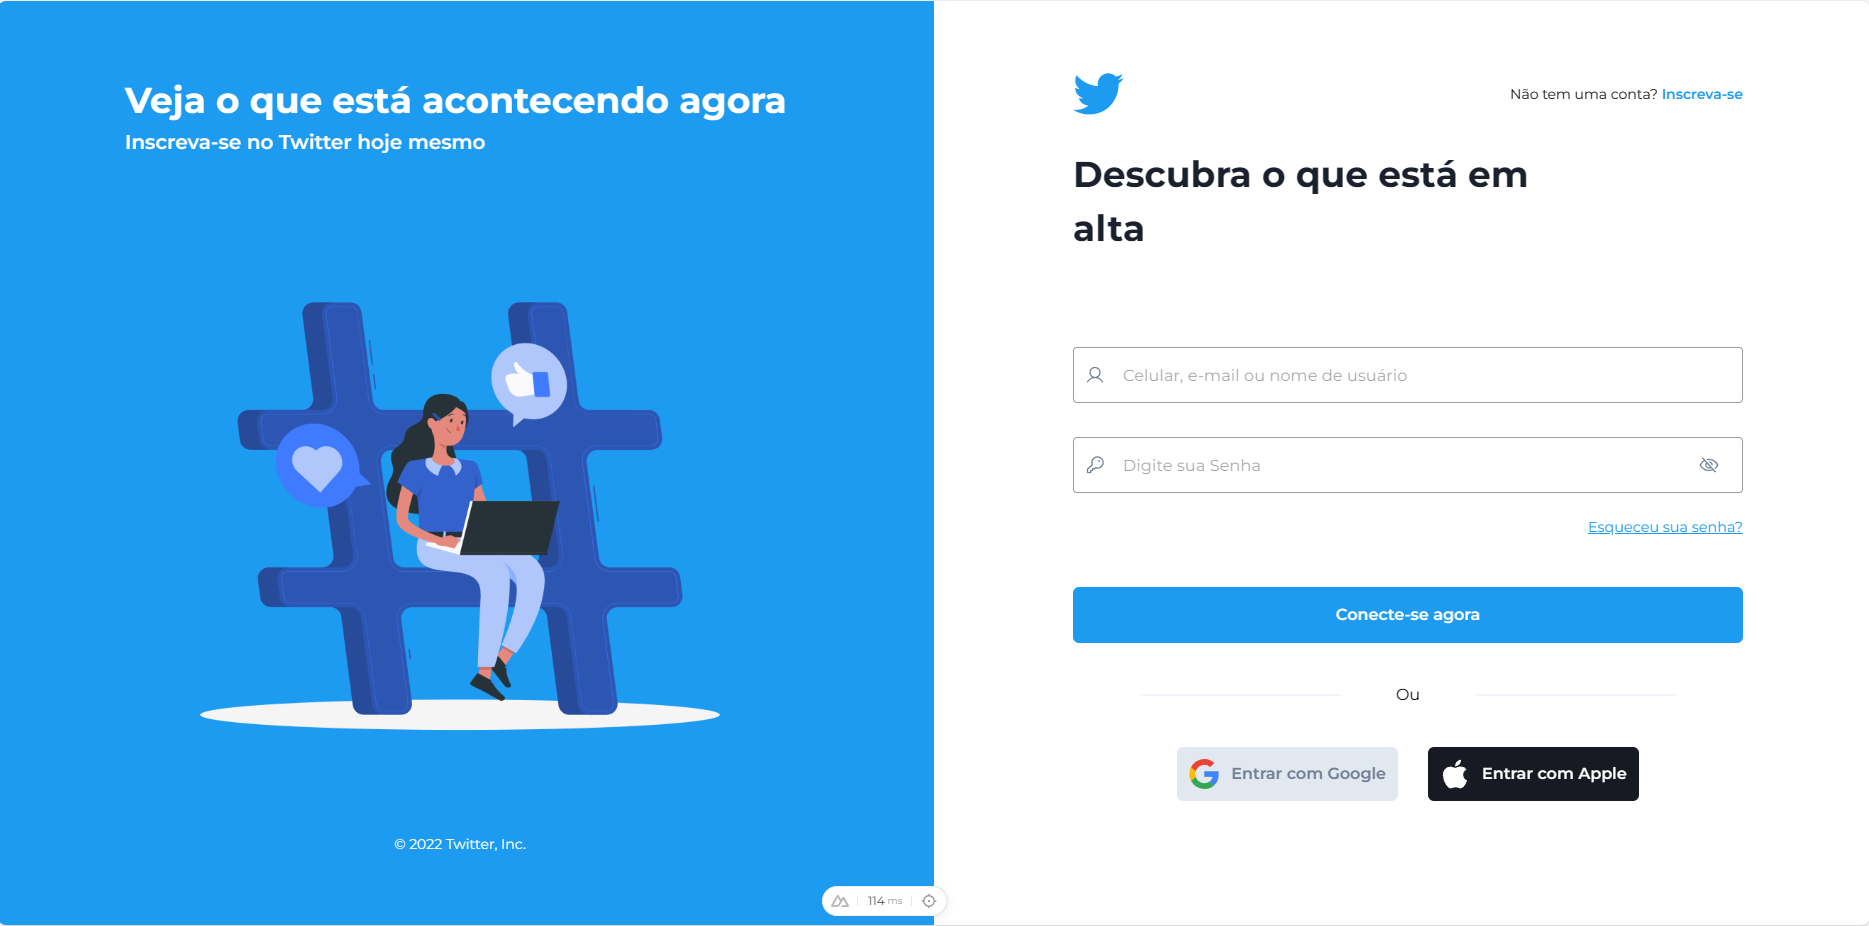
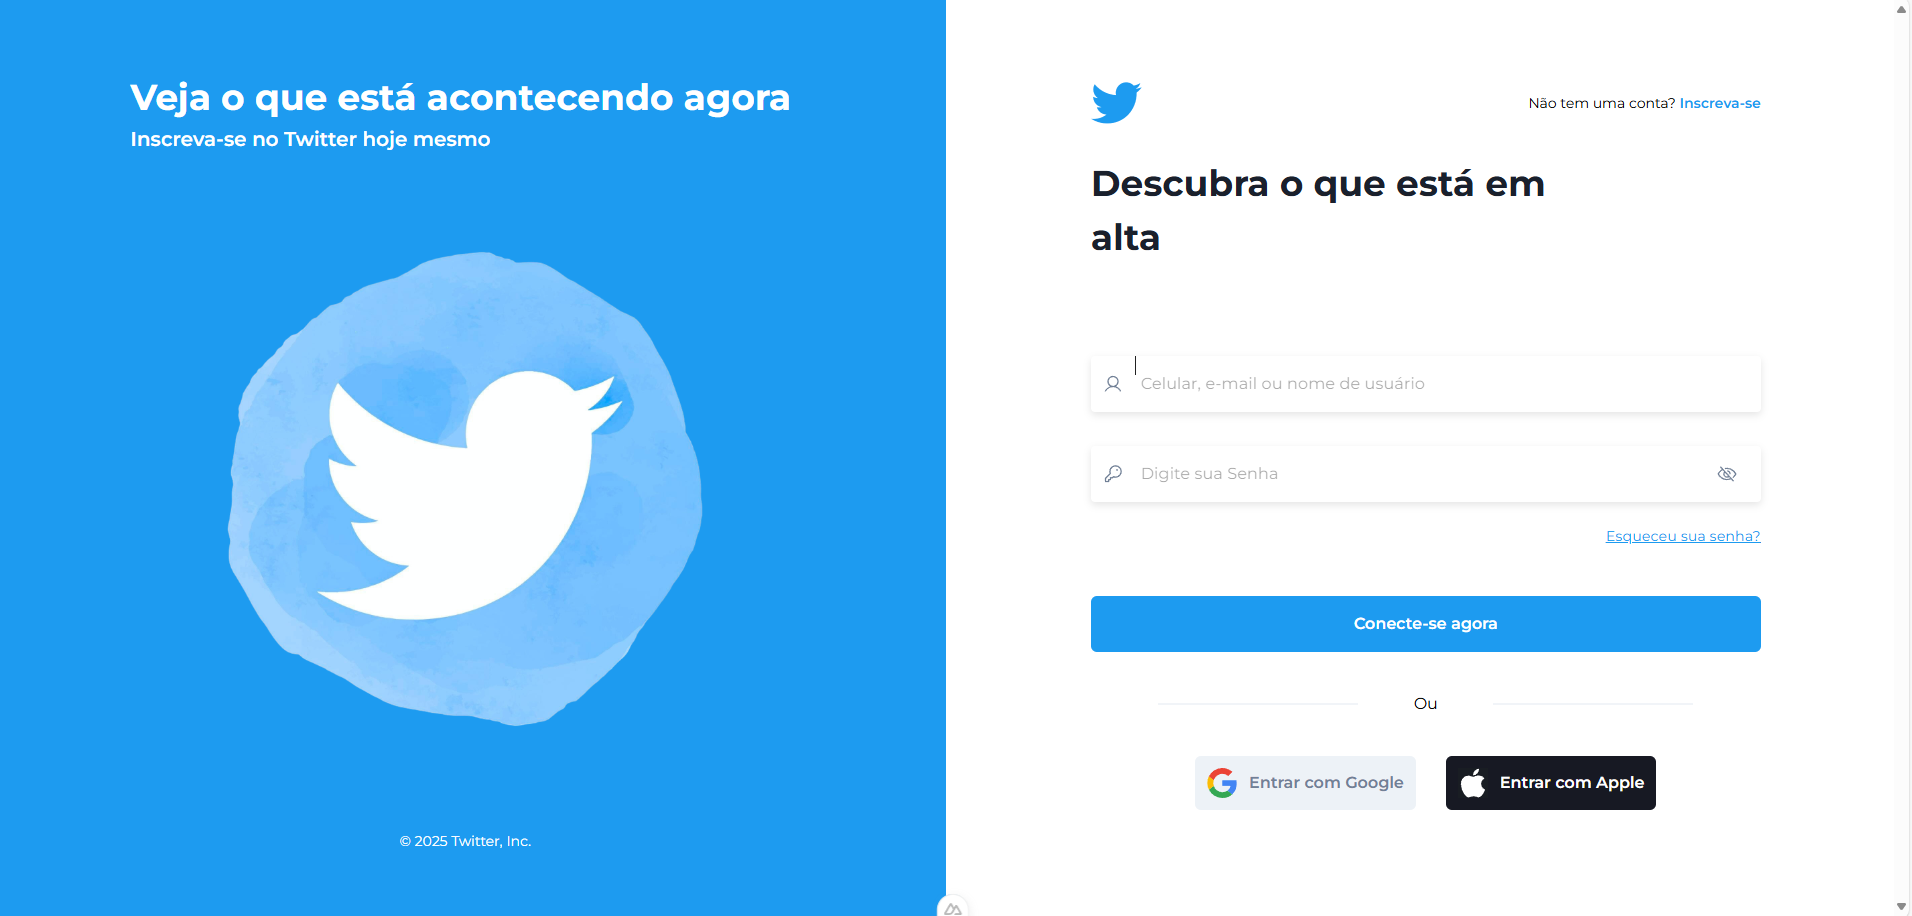
feat: add new styles on auth pages

diff --git a/src/pages/auth/components/Container.vue b/src/pages/auth/components/Container.vue
@@ -16,7 +16,7 @@
                 <img :src="TwitterImage" alt="Twitter" />
 
                 <app-text color="white" as="span" size="sm" class="text-center d-block">
-                  © 2023 Twitter, Inc.
+                  © 2025 Twitter, Inc.
                 </app-text>
               </div>
             </div>
@@ -33,7 +33,7 @@
 </template>
 
 <script setup lang="ts">
-import TwitterImage from '@/assets/ilustrations/ilustration.png'
+import TwitterImage from '@/assets/ilustration.png'
 </script>
 
 <style scoped lang="scss">

diff --git a/src/pages/auth/login/index.vue b/src/pages/auth/login/index.vue
@@ -89,7 +89,7 @@
           <div class="mt-10 separator w-50 text-center mx-auto">Ou</div>
 
           <div class="d-flex flex-wrap justify-center mt-10 gap-30">
-            <app-button background="gray-200" class="d-flex align-center">
+            <app-button background="gray-100" class="d-flex align-center">
               <img class="icon" :src="GoogleImage" alt="Google" />
               <app-text class="ms-3" as="strong" color="gray-500" weight="semibold">
                 Entrar com Google

diff --git a/src/pages/auth/register/steps/index.vue b/src/pages/auth/register/steps/index.vue
@@ -2,7 +2,7 @@
   <container>
     <template #content>
       <div class="h-100 d-flex flex-column justify-space-between">
-        <div class="scrollable h-100 d-flex flex-column">
+        <div class="scrollable h-100 d-flex flex-column px-2">
           <div>
             <app-button
               border-color="primary"

diff --git a/src/pages/auth/password/recover/components/Step3.vue b/src/pages/auth/password/recover/components/Step3.vue
@@ -1,5 +1,5 @@
 <template>
-  <div>
+  <div class="px-2">
     <app-box
       background="gray-50"
       border-color="gray-50"
